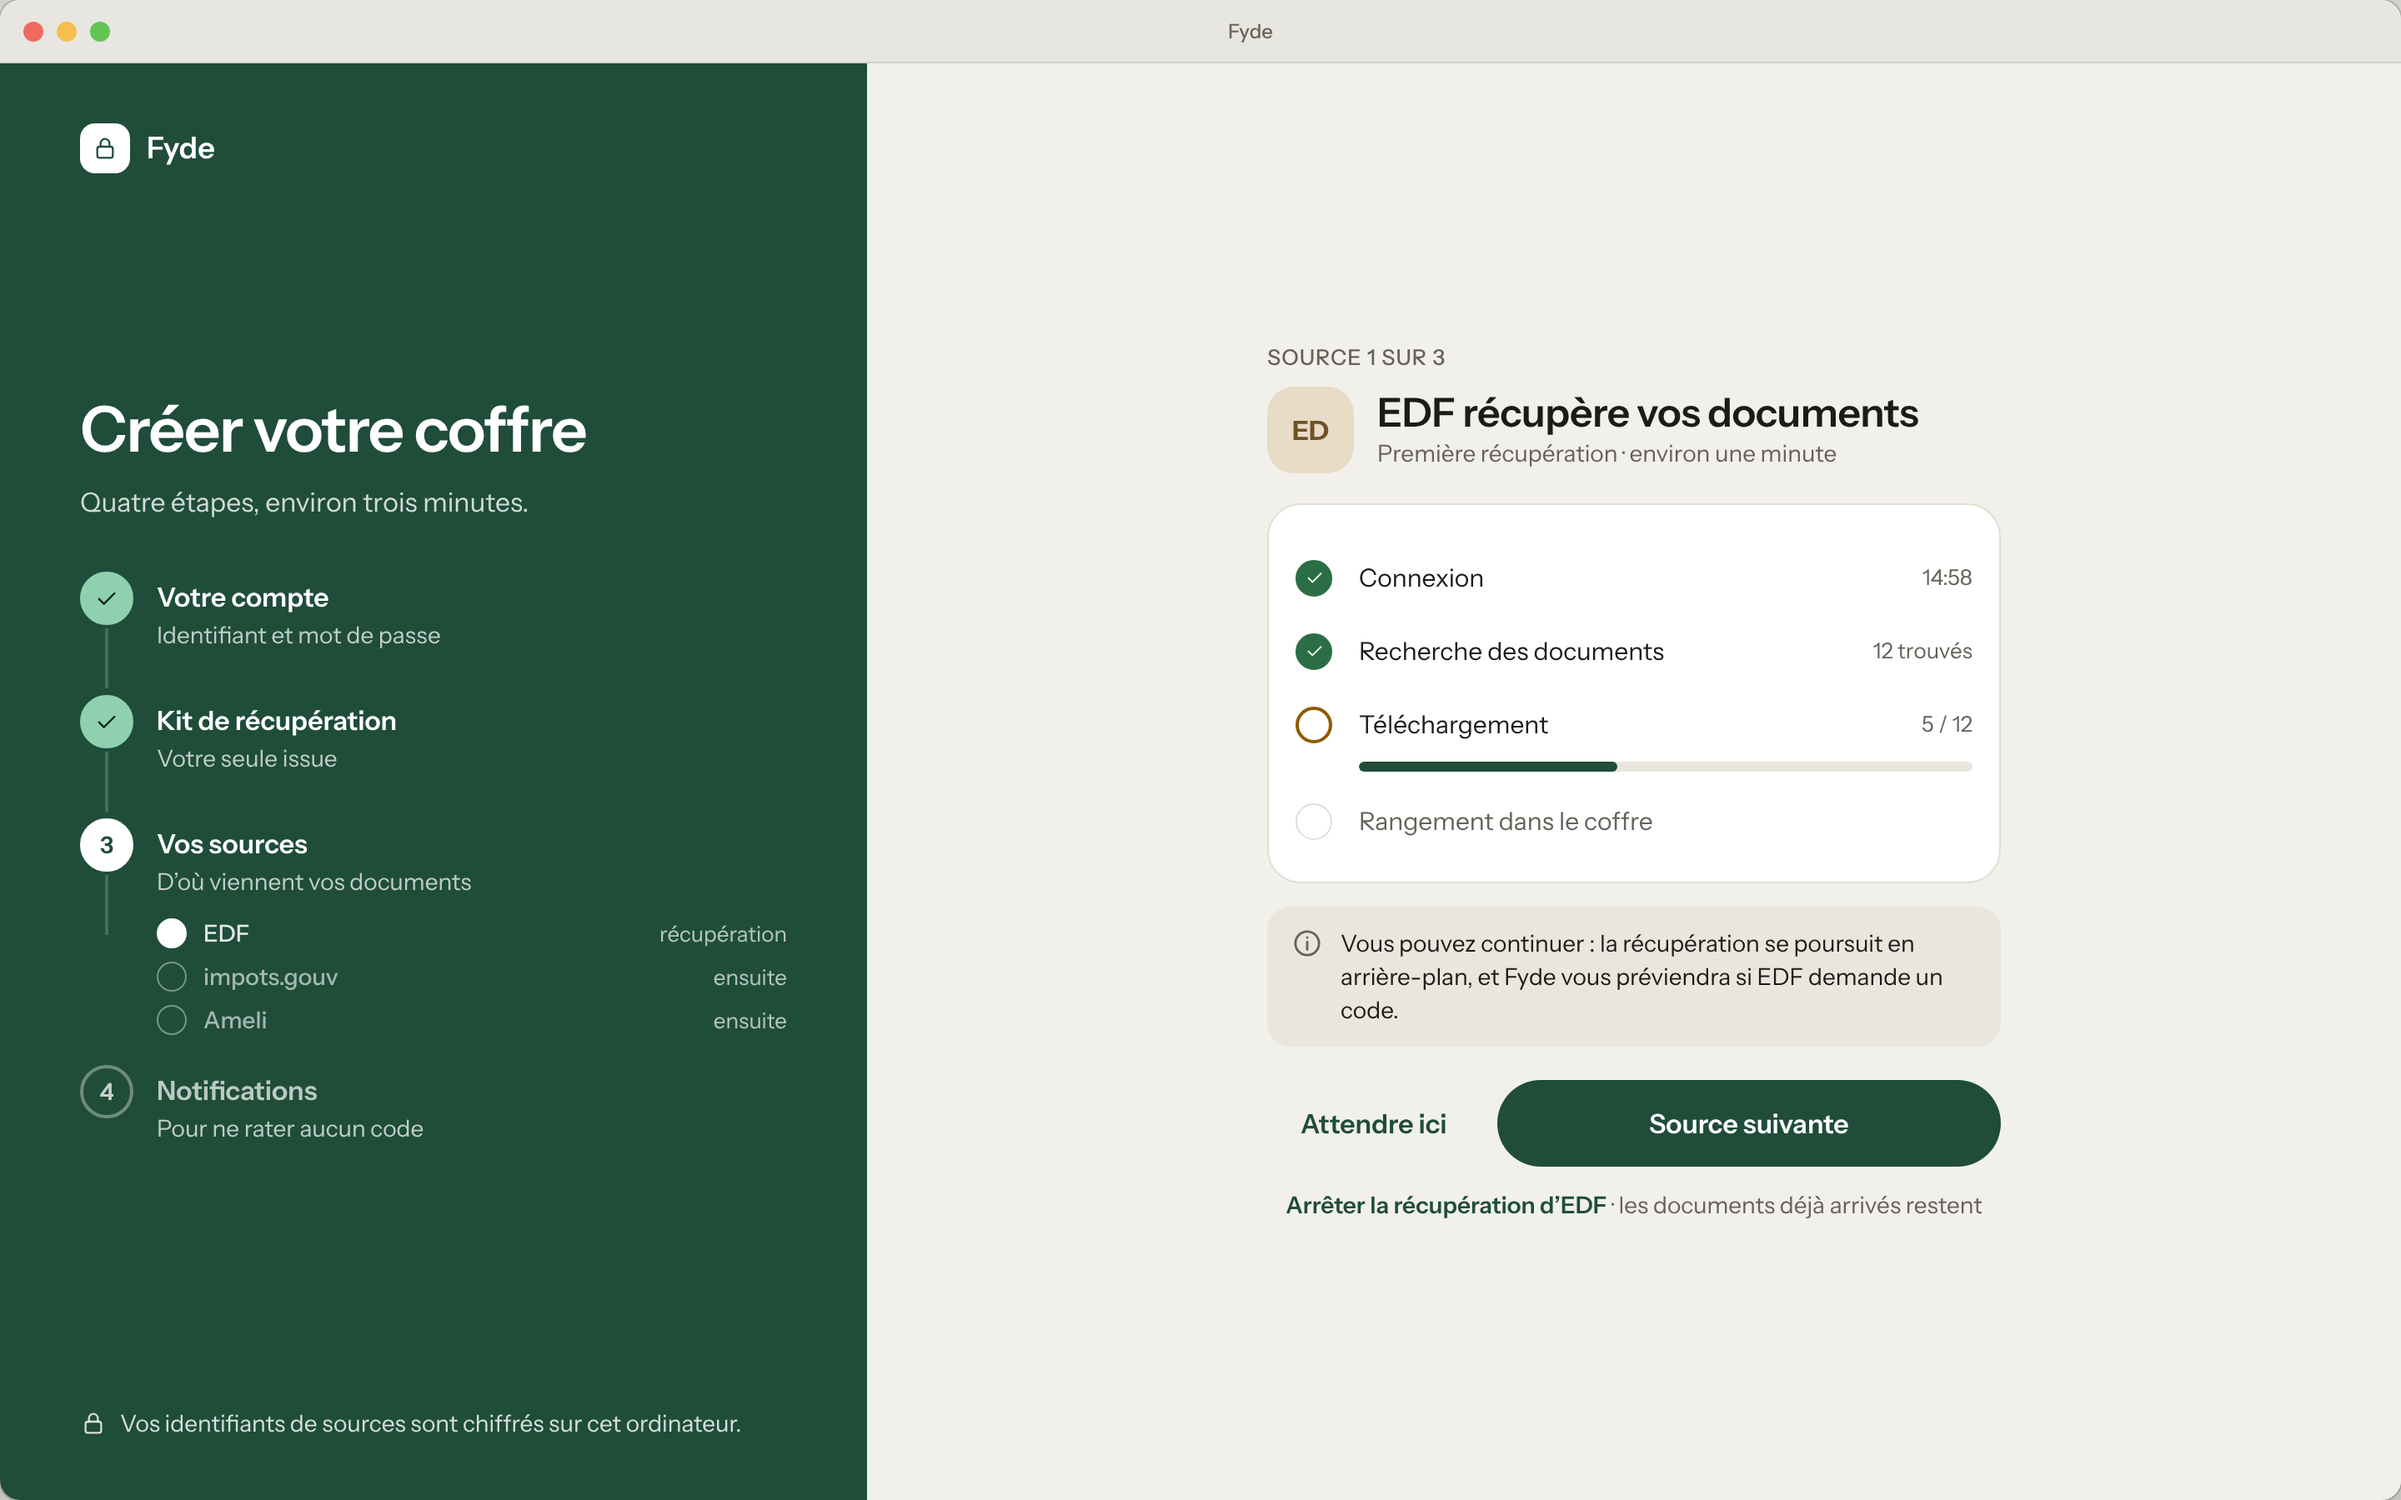
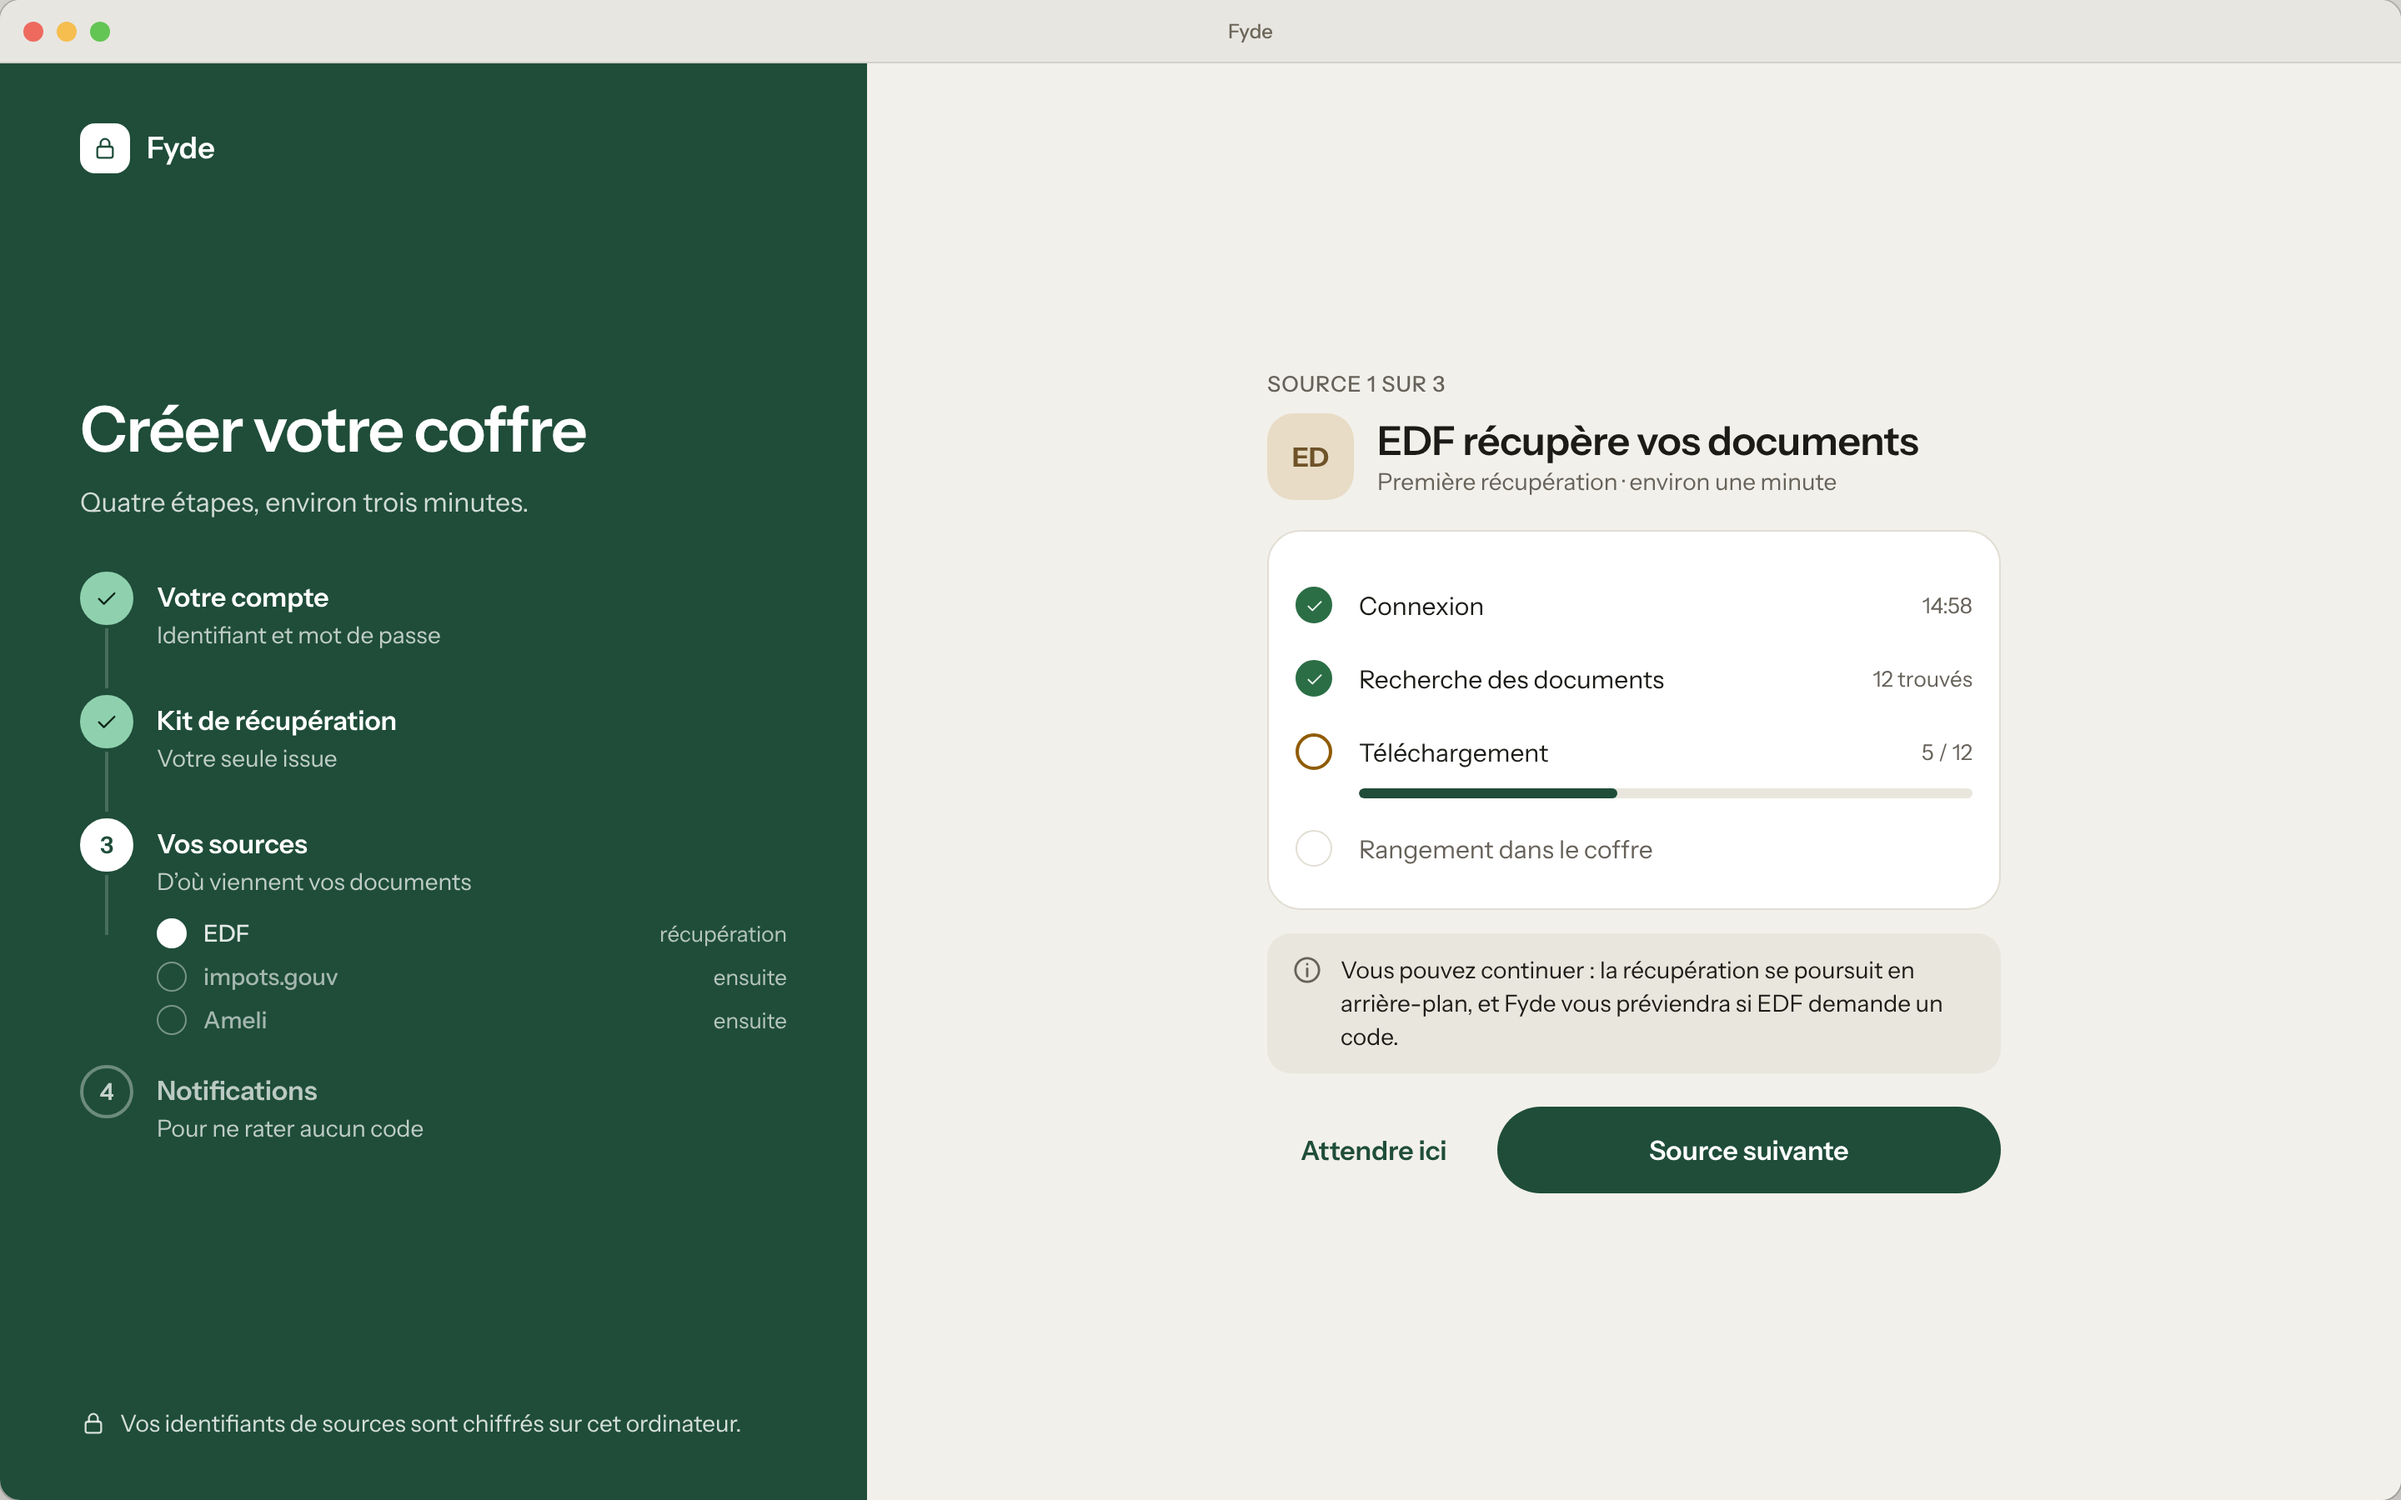
Keep DO7c as it was: no stop action on the first run's screen
Claude-Session: https://claude.ai/code/session_011depZpgecXsn738YBGDPrm

diff --git a/design/assets/mockups/desktop-sources.html b/design/assets/mockups/desktop-sources.html
@@ -110,7 +110,6 @@
  </div>
  <div class="note info" style="margin:14px 0 0"><svg class="ic"><use href="#i-info"/></svg><span>Vous pouvez continuer : la récupération se poursuit en arrière-plan, et Fyde vous préviendra si EDF demande un code.</span></div>
  <div class="row2"><button class="pbtn t">Attendre ici</button><button class="pbtn f">Source suivante</button></div>
- <p class="t2" style="text-align:center;margin-top:14px"><b style="color:var(--primary);font-weight:600">Arrêter la récupération d’EDF</b> · les documents déjà arrivés restent</p>
 </div></div></div>
 </div></div>
 <div class="board"><p class="caption-board">DO7d · Code reçu par SMS</p>

diff --git a/design/design-system.md b/design/design-system.md
@@ -318,8 +318,8 @@ would expire unseen.
 - **Lancer** (S5, D4, R2) runs the source now, on the device where it's tapped: one sign-in,
   asked for by the user.
 - **Arrêter** stops a run in progress, on the device running it. It's offered wherever that run
-  is shown with room for an action: S4 and DO7c (text button "Arrêter la récupération" under
-  the primary, which stays "Continuer en arrière-plan" / "Source suivante"), S5 and D4's
+  is shown with room for an action: S4 (text button "Arrêter la récupération" under the
+  primary, which stays "Continuer en arrière-plan"), S5 and D4's
   detail panel (Lancer's slot turns into an outlined Arrêter while it runs, S5b and D4b), the
   code sheet and S8 (text button "Arrêter la récupération"). Never in S1's rows or D4's table:
   a row stays one tap target, and stopping by mistake would throw away a sign-in.
@@ -582,7 +582,7 @@ Same flows, content and SDK calls as O1–O9; layout in
 | DO7 | Choisir ses sources | Step 3 of 4: plan counter ("Votre offre Gratuit inclut 5 sources", 3 / 5), search, 2-column source cards (selected = 2dp `primary` border + ticked box), Connecter n sources; Passer at the top right | — |
 | DO7h | Limite de l'offre atteinte | Counter in `warning` ("Limite de l'offre Gratuit atteinte", 5 / 5); unticked cards dimmed and not tickable; warning note on unticking to swap and upgrading later from Moi › Offre et usage | See [Plan quota](#plan-quota) |
 | DO7b | Connecter une source | "Source 1 sur 3"; the source's tile and what it fetches; info note naming the only sites Fyde will contact (`allowedDomains`); one field per script parameter (here e-mail and password, with "Celui de votre espace client EDF, pas celui de Fyde."); ok note "Chiffrés avec votre coffre"; Récupérer automatiquement; Connecter EDF; "Passer cette source" at the top right. The brand panel lists the ticked sources under step 3 with their state | Connect installs the script and starts its first run |
-| DO7c | Récupération en cours | Run stepper (Connexion → Recherche → Téléchargement i / n → Rangement) in a card; note that the run goes on in the background and Fyde will say if a code is asked; Attendre ici / Source suivante; a line under them "Arrêter la récupération d'EDF · les documents déjà arrivés restent" | Moving on doesn't stop the run; its state stays in the brand panel. Arrêter freezes the stepper as in S4b, the brand panel saying "arrêtée", and leaves Source suivante as the way on |
+| DO7c | Récupération en cours | Run stepper (Connexion → Recherche → Téléchargement i / n → Rangement) in a card; note that the run goes on in the background and Fyde will say if a code is asked; Attendre ici / Source suivante | Moving on doesn't stop the run; its state stays in the brand panel. No Arrêter here: the first run is short, and it can be stopped from DO7d or, later, D4 |
 | DO7d | Code reçu par SMS | "impots.gouv demande un code"; code card (SMS, masked number, six boxes, step trail); "Collez le code ou tapez-le : il est envoyé dès le 6ᵉ chiffre."; Arrêter la récupération / Valider. An e-mail code uses the same card: "Code reçu par e-mail", the masked address, a spam hint, "Ouvrez votre messagerie, copiez le code et collez-le ici" | Valider stays disabled until 6 digits; wrong code → field error with the provider's wording, boxes emptied |
 | DO7f | Mot de passe refusé | Error note "Ameli a refusé ces identifiants"; the failing secret emptied and focused; Passer cette source / Réessayer; "Vous pourrez la reconnecter plus tard depuis Sources." | Skipping keeps the source installed but paused, with its failure, in S1 |
 | DO7g | Sources connectées | "Vos sources sont prêtes", one row per ticked source (documents fetched, still running with i / n, stopped with "Arrêtée · n documents gardés" and Relancer, or skipped with Réessayer), Continuer, "Ajouter une autre source" | — |
@@ -652,7 +652,7 @@ left out (principle 5), not faked.
 | First-page thumbnails | V3, D1, D2 |
 | Sorting by amount or name | V3, D1 |
 | Script categories and popularity | O7, DO7, S2 chips and groups |
-| Stopping a run in progress (a stop call that ends the script at its next instruction, request, browser wait or question, and a "stopped" outcome distinct from a failure). Dropping the run's future doesn't stop its script today | S4, S4b, S5b, S8, code sheet, DO7c, DO7d, D4b |
+| Stopping a run in progress (a stop call that ends the script at its next instruction, request, browser wait or question, and a "stopped" outcome distinct from a failure). Dropping the run's future doesn't stop its script today | S4, S4b, S5b, S8, code sheet, DO7d, D4b |
 | Renaming a session | M5 |
 | Plan catalogue and purchase | M9 |
 | Deleting the account | M12b |
@@ -661,7 +661,7 @@ left out (principle 5), not faked.
 
 1. **New shell, no SDK change:** tokens, fonts, `AppTabBar` / `AppSidebar`, V1, V3–V7, V9, V11,
    S1–S4 with live run state only, M1, M5–M8, O1–O5, O7, O8, X1, code sheet, K1–K4; Arrêter
-   (S4b, S5b, D4b and the stop actions on S4, S8, DO7c, DO7d) as soon as the SDK can stop a run.
+   (S4b, S5b, D4b and the stop actions on S4, S8, DO7d) as soon as the SDK can stop a run.
 2. **Automation visible:** run records and scheduling → S5, S6, R2–R4, V2, statuses everywhere.
 3. **Trust:** recovery kit, password check, last seen → O6, O9, M2–M4.
 4. **Triage:** provenance, unconfirmed flag, delete → R1 and D3 triage, Source facet, V8 delete,

diff --git a/design/screen-map.md b/design/screen-map.md
@@ -112,7 +112,7 @@ The same flows as O1–O9 in a split window, with the states drawn as their own 
   **DO6** → **DO6b** → **DO7**.
 - **DO7** (or **DO7h** at the limit) → **DO7b** for each ticked source → **DO7c** while it runs.
   From DO7c: a code asked by SMS or e-mail (**DO7d**, one card for both; its "Arrêter la
-  récupération" stops the run, as DO7c's own link does), "Source suivante" back to
+  récupération" stops the run), "Source suivante" back to
   DO7b, or **DO7g** after the last source. **DO7f** is DO7b after a refused password; skipping
   the last source also reaches DO7g. DO7g or "Passer" → **DO8**.
 - DO8 and DO9 open the vault.
